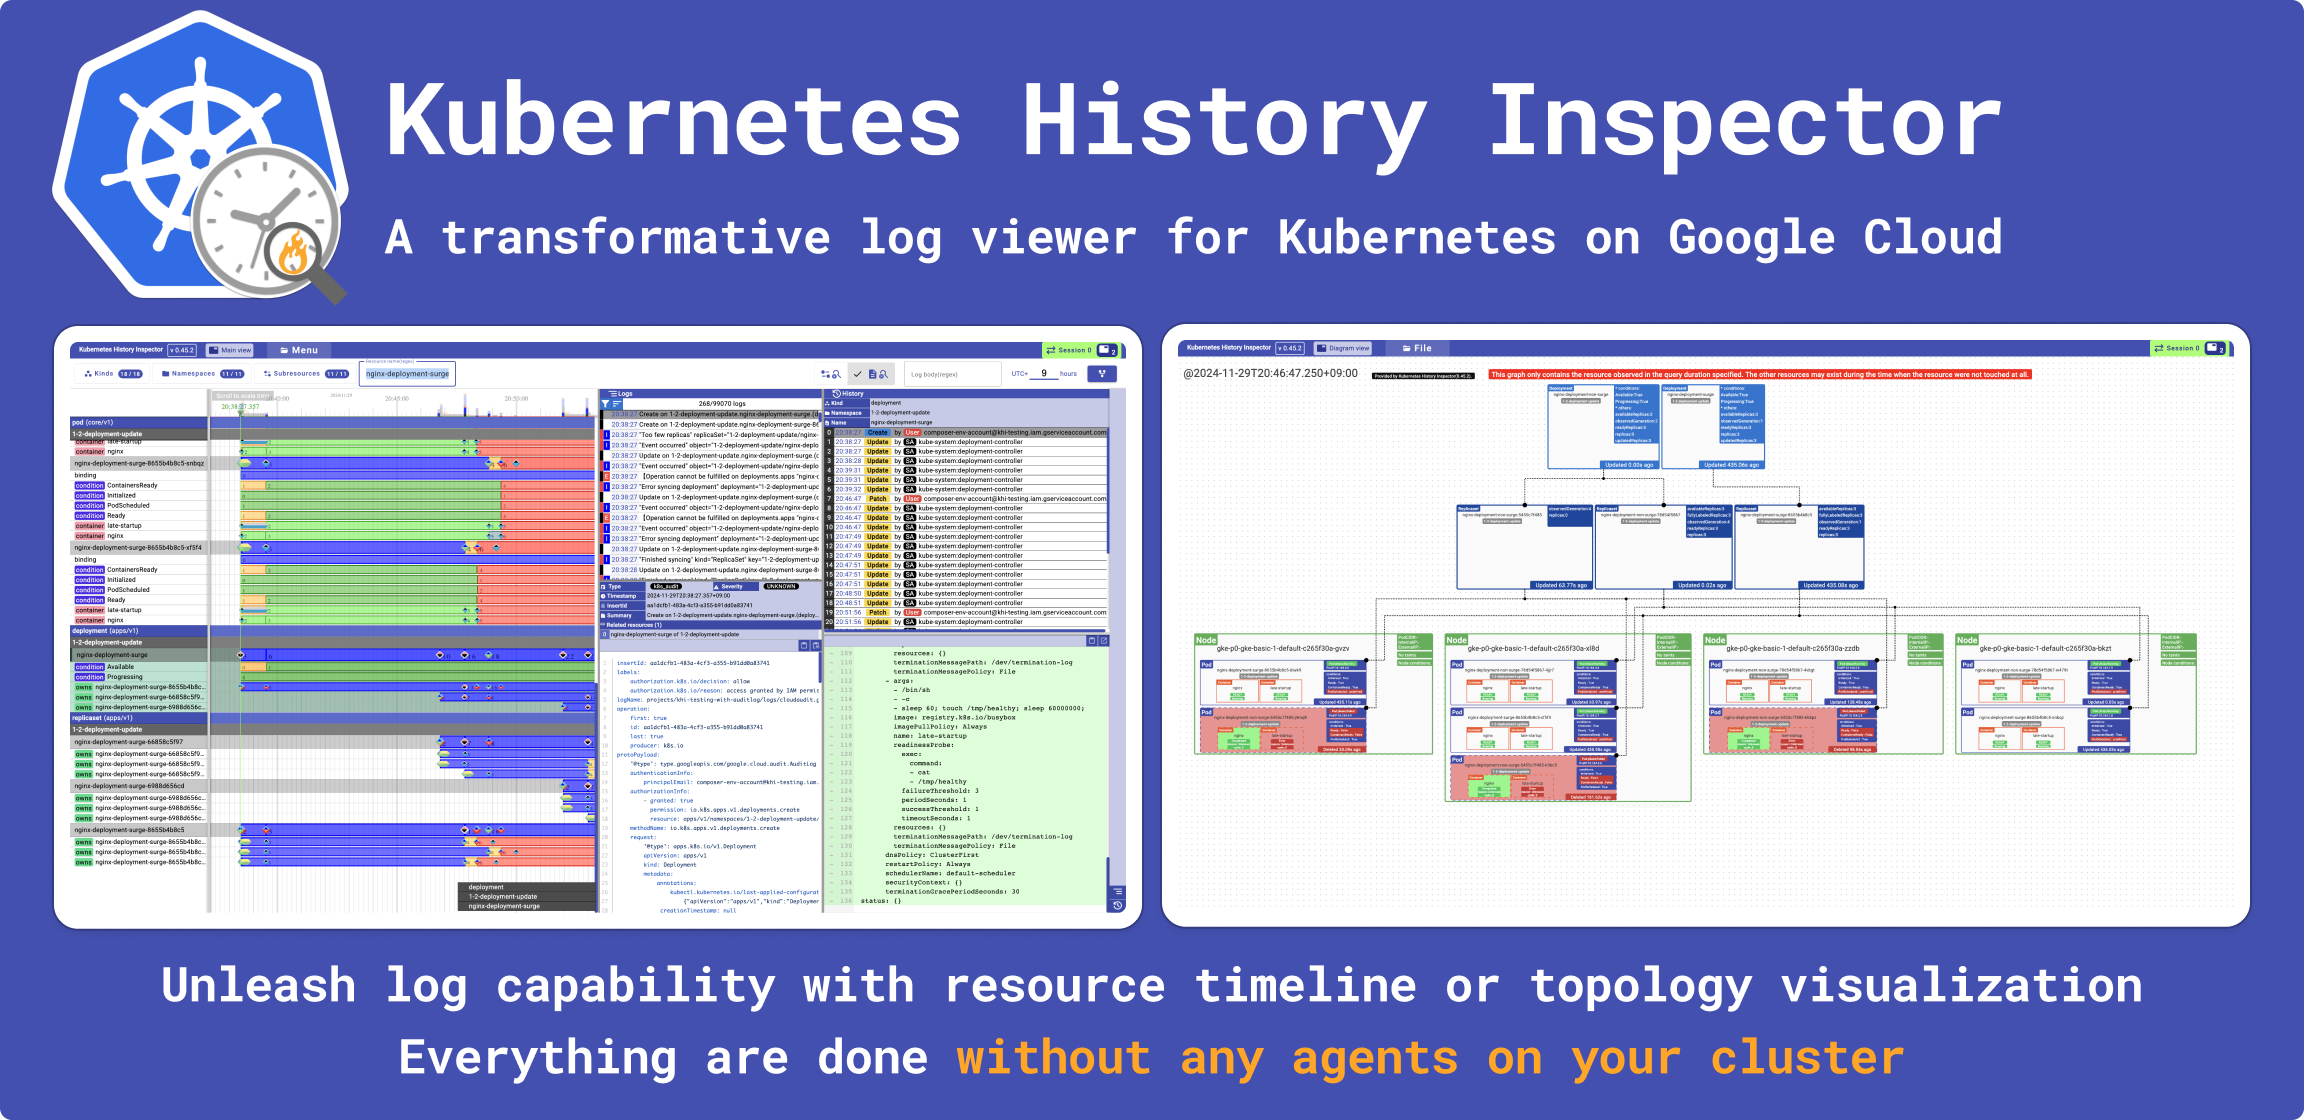
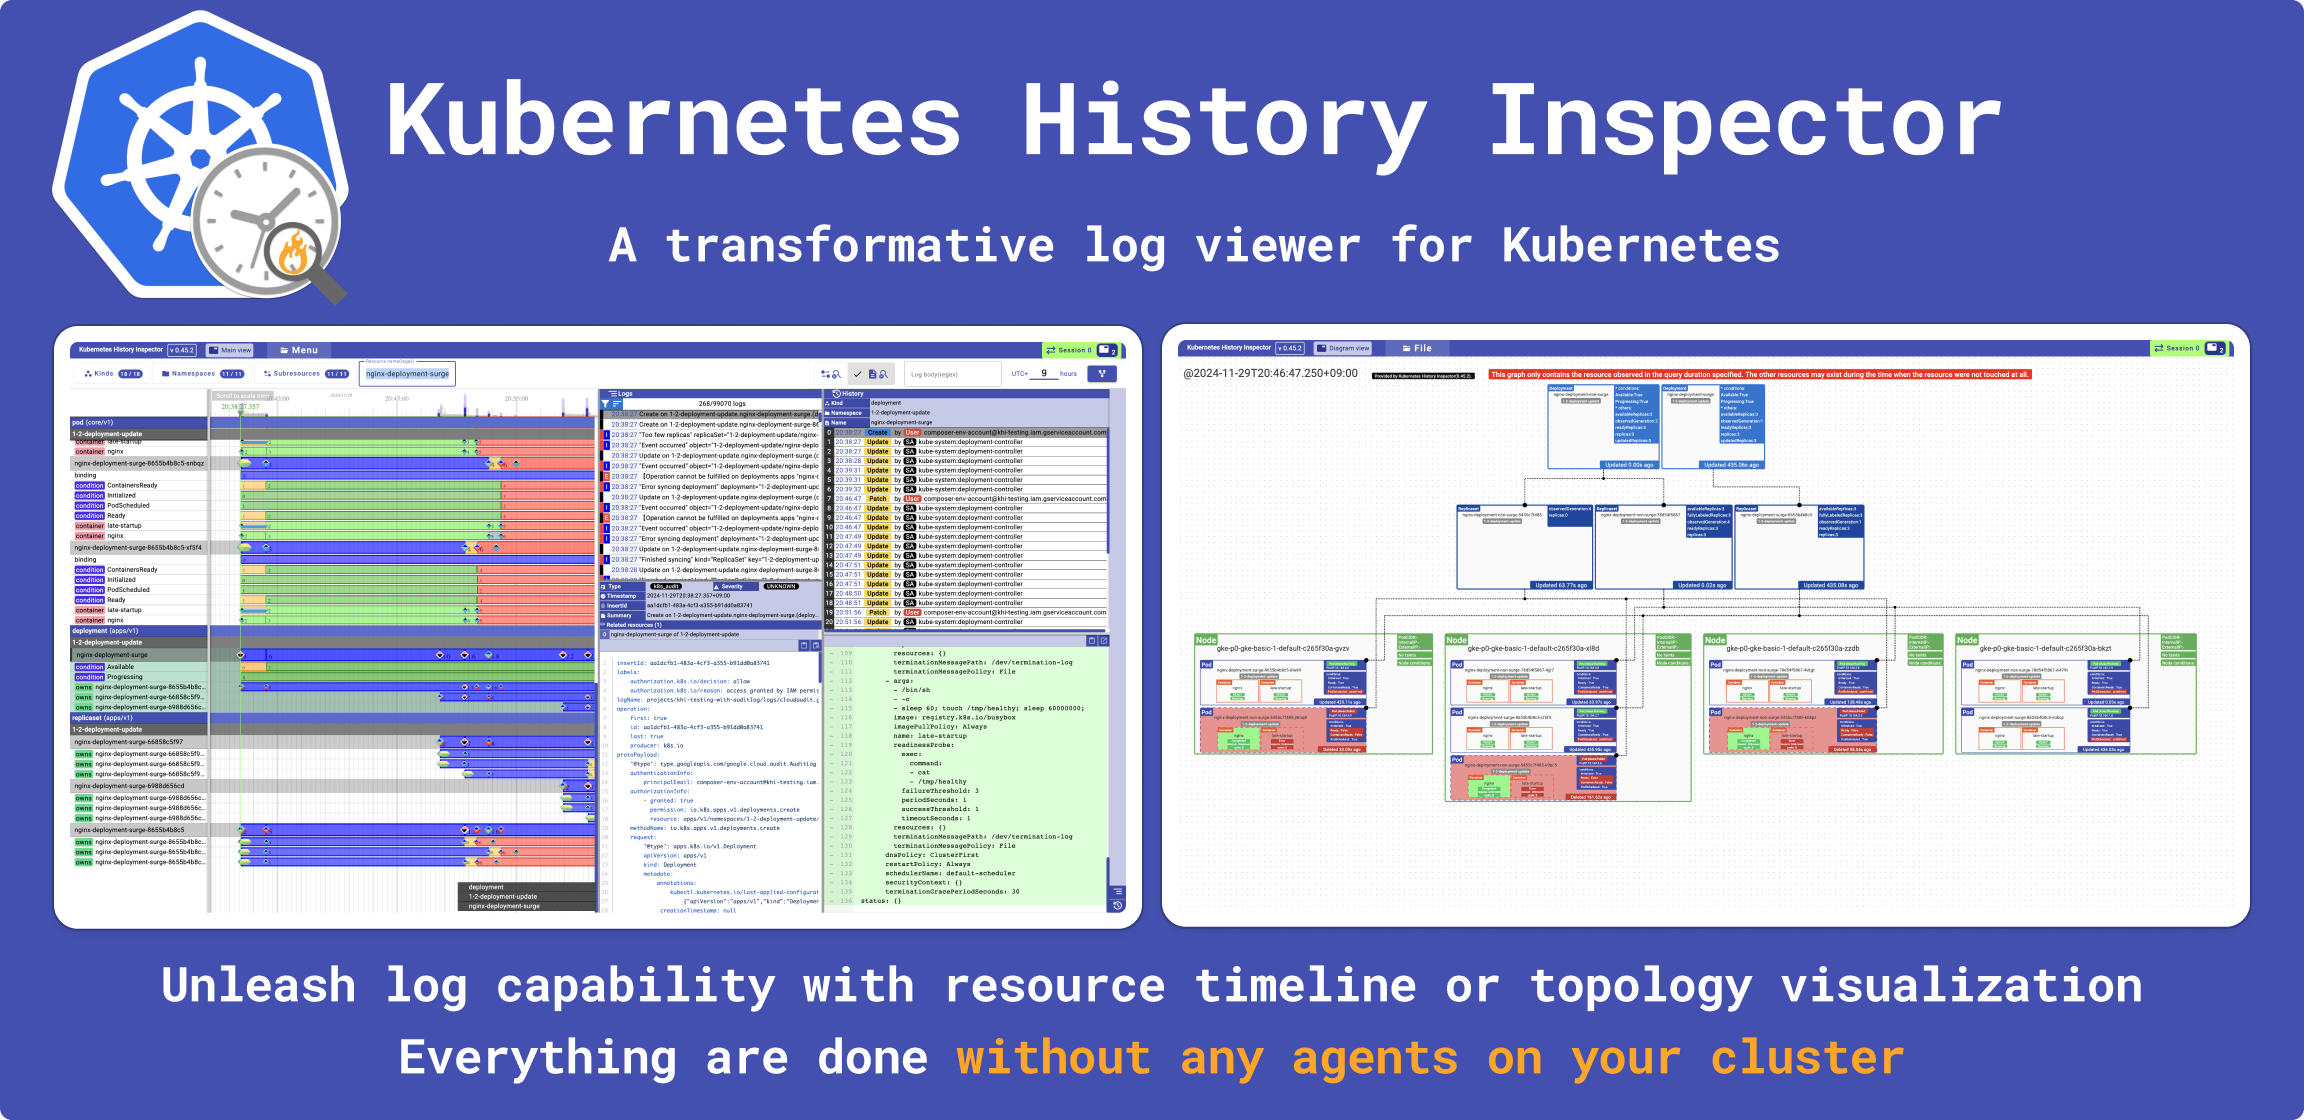
Rewrote the supported environment

Changed region(s): [[0.1562, 0.1875, 0.875, 0.25]]

diff --git a/README.md b/README.md
@@ -2,13 +2,12 @@
 
 ![Header](./image/header.png)
 
-Kubernetes History Inspector (KHI) is a rich visualization tool for Kubernetes clusters on Google Cloud (e.g GKE, GKE on AWS/Azure, GDCV, etc).
-KHI transforms vast quantities of logs into an interactive, comprehensive timeline view.
+Kubernetes History Inspector (KHI) is a rich log visualization tool for Kubernetes clusters. KHI transforms vast quantities of logs into an interactive, comprehensive timeline view.
 This makes it an invaluable tool for troubleshooting complex issues that span multiple components within your Kubernetes clusters.
 
 ## KHI features and characteristics
 
-- **No Prior Setup Required:** KHI uses your existing Cloud Logging logs, so you don't need to install anything extra. This makes setup easier and saves you time. Furthermore, you can use KHI to troubleshoot even past issues as long as logs are still available in Cloud Logging.
+- **No Prior Setup Required:** KHI uses your existing logs, so you don't need to install anything extra. This makes setup easier and saves you time. Furthermore, you can use KHI to troubleshoot even past issues as long as logs are still available in your logging backend.
 
 - **Effortless log collection:** KHI significantly simplifies the process of collecting and visualizing Kubernetes-related logs. Instead of writing complex queries, users can leverage an interactive GUI. By setting the target cluster type, log types, and parameters such as time range and cluster name, KHI automatically generates the necessary queries and collects the logs for visualization.
 
@@ -26,14 +25,28 @@ This makes it an invaluable tool for troubleshooting complex issues that span mu
 
 ![Feature: resource diagram](./image/feature-diagram.png)
 
-## Supported Products
+## Supported environments
 
-- [Google Kubernetes Engine](https://cloud.google.com/kubernetes-engine/docs/concepts/kubernetes-engine-overview)
-- [Cloud Composer](https://cloud.google.com/composer/docs/composer-3/composer-overview)
-- [GKE on AWS](https://cloud.google.com/kubernetes-engine/multi-cloud/docs/aws/concepts/architecture) 
-- [GKE on Azure](https://cloud.google.com/kubernetes-engine/multi-cloud/docs/azure/concepts/architecture)
-- [GDCV for Baremetal](https://cloud.google.com/kubernetes-engine/distributed-cloud/bare-metal/docs/concepts/about-bare-metal)
-- GDCV for VMWare
+### Cluster environment
+
+- Google Cloud
+  - [Google Kubernetes Engine](https://cloud.google.com/kubernetes-engine/docs/concepts/kubernetes-engine-overview)
+  - [Cloud Composer](https://cloud.google.com/composer/docs/composer-3/composer-overview)
+  - [GKE on AWS](https://cloud.google.com/kubernetes-engine/multi-cloud/docs/aws/concepts/architecture) 
+  - [GKE on Azure](https://cloud.google.com/kubernetes-engine/multi-cloud/docs/azure/concepts/architecture)
+  - [GDCV for Baremetal](https://cloud.google.com/kubernetes-engine/distributed-cloud/bare-metal/docs/concepts/about-bare-metal)
+  - GDCV for VMWare
+
+- OSS
+  - kube-apiserver audit logs as JSONlines (Coming soon)
+
+### Logging backend
+
+- Google Cloud
+  - Cloud Logging (For all clusters on Google Cloud)
+
+- Other
+  - Log file upload (Coming soon)
 
 ## Get Started (Run with Cloud Shell)
 
